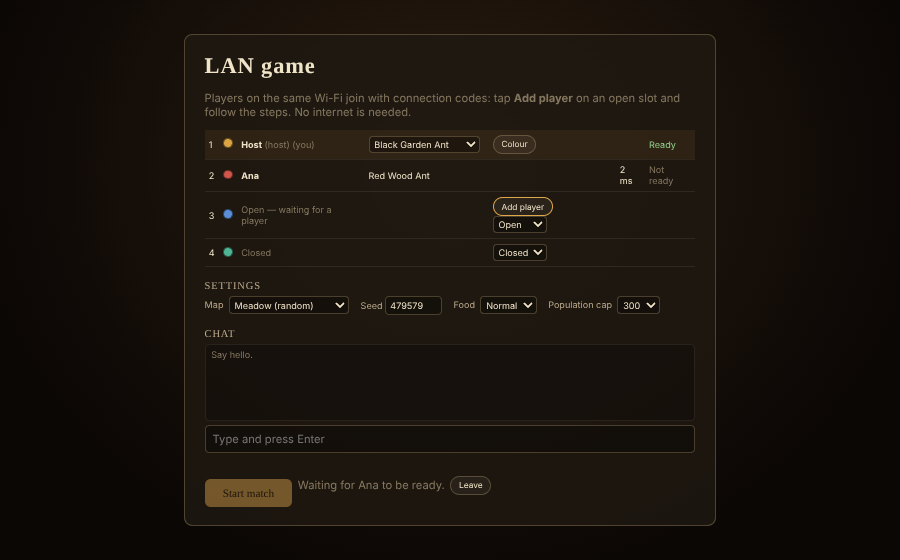
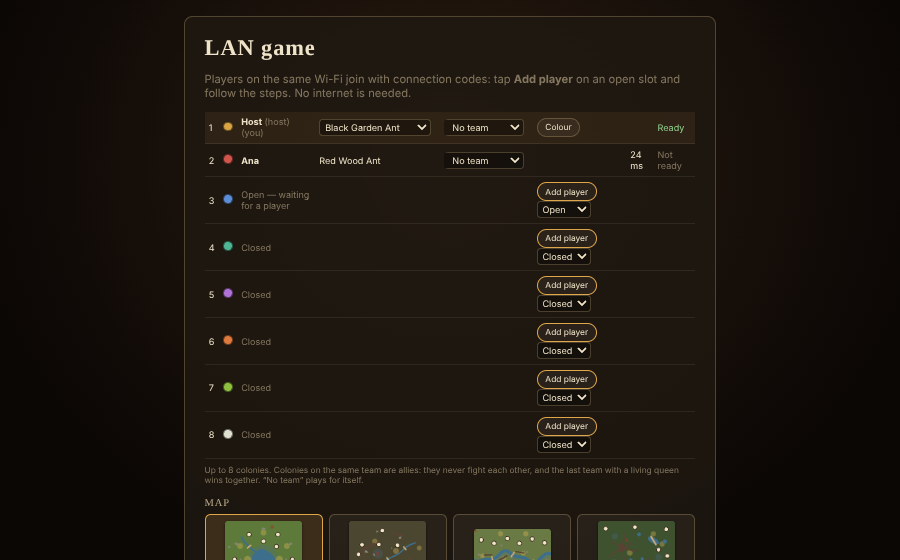
LAN test: pick the map on its card; allow more time for four pages to start
Claude-Session: https://claude.ai/code/session_01MHhvayxRSszQFax75UpbXx

diff --git a/tests/browser/lan.py b/tests/browser/lan.py
@@ -5,7 +5,7 @@ player with a host code, the player pastes it and gets a reply code, the host pa
   1. two players by copy and paste, a match, matching state hashes
   2. wrong and damaged codes give the right messages
   3. a dropped player comes back with a new code (host: Players → Reconnect) and catches up
-  4. four players (host + 3) on Meadow Pond (chosen in the lobby), matching hashes
+  4. four players (host + 3) on Forest Floor (chosen on its map card in the lobby), matching hashes
   every page: no request to PeerJS, STUN/TURN hosts or any other server once loaded, and every
   RTCPeerConnection made with an empty iceServers list
 
@@ -147,7 +147,8 @@ with sync_playwright() as p:
         wait(lambda: not h.locator('[data-a="start"]').is_disabled(), 30)
         h.click('[data-a="start"]')
         pages = [h] + guests
-        return wait(lambda: all(pg.evaluate('window.__ready===true') for pg in pages), 300)
+        # four software-rendered pages on two CPUs can take several minutes to build the match
+        return wait(lambda: all(pg.evaluate('window.__ready===true') for pg in pages), 600)
 
     def rtc_clean(pages):
         cfgs = [c for pg in pages for c in (ev(pg, 'window.__rtcConfigs || []') or [])]
@@ -286,14 +287,14 @@ with sync_playwright() as p:
             add_player(h, g, slot, name)
             check(f'{name} is seated in slot {slot + 1}', seated(h, name))
             guests.append(g)
-        # the authored map, chosen in the lobby
-        h.select_option('select[data-f="style"]', 'map:meadowPond')
-        check('every player sees Meadow Pond chosen', all(wait(lambda: 'Meadow Pond' in g.locator('.lobby').inner_text(), 15) for g in guests))
+        # the authored map, chosen on its card in the lobby
+        h.click('.lb-maps .map-card[data-map="forestFloor"]')
+        check('every player sees Forest Floor chosen', all(wait(lambda: g.locator('.lb-maps .map-card.on[data-map="forestFloor"]').count() == 1, 15) for g in guests))
         h.screenshot(path=os.path.join(SHOTS, 'lan-lobby-four.png'))
         ok = start_match(h, guests)
         check('the four-player LAN match starts everywhere', ok)
         if ok:
-            check('the match is on Meadow Pond, four colonies on its sites', all(ev(pg, '__session.world.terrain.map && __session.world.terrain.map.id') == 'meadowPond' and ev(pg, '__session.world.s.colonies.length') == 4 for pg in [h] + guests))
+            check('the match is on Forest Floor, four colonies on its sites', all(ev(pg, '__session.world.terrain.map && __session.world.terrain.map.id') == 'forestFloor' and ev(pg, '__session.world.s.colonies.length') == 4 for pg in [h] + guests))
             ok, hs = same_hashes([h] + guests, 300)
             check('state hashes match (4 players)', ok, hs)
             check('no desync', not any(ev(pg, '!!__net.status().desync') for pg in [h] + guests))
